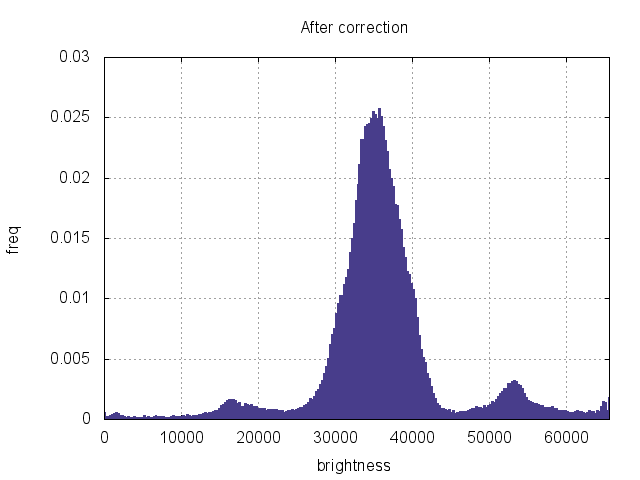
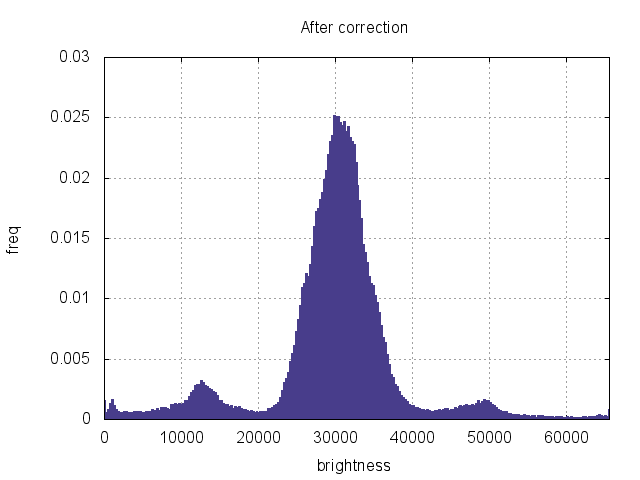
Add implement 2

Changed region(s): [[0.375, 0.2188, 0.75, 0.875], [0.1562, 0.7812, 0.375, 0.875], [0.75, 0.7812, 0.9688, 0.875]]

diff --git a/Utils/processors/to_negative.rb b/Utils/processors/to_negative.rb
@@ -4,6 +4,7 @@ module Utils
   module Processors
     class ToNegative < Base
       def run!
+=begin
         histogramm = image.histogramm
         image.image_data = image.image_data.map do |r, g, b|
           r = 255 - r
@@ -11,6 +12,22 @@ module Utils
           b = 255 - b
           [r, g, b]
         end
+=end
+#begin
+        image.height.times do |i|
+          image.width.times do |j|
+            image.view[i][j].red = 255 - image.view[i][j].red
+            image.view[i][j].green = 255 - image.view[i][j].green
+            image.view[i][j].blue = 255 - image.view[i][j].blue
+          end
+        end
+
+        image.view.sync
+
+        image.image_data = image.image_data.map do |r, g, b|
+          [r, g, b]
+        end
+#end
       end
     end
   end

diff --git a/laba1/main.rb b/laba1/main.rb
@@ -23,5 +23,5 @@ HistogrammPlotter.plot(image.histogramm, 'Before correction', 'out1.jpeg')
 Utils::Processors::ToNegative.new(image).run! if opts[:negative]
 Utils::Processors::ToMedianFilter.new(image).run! opts[:size] if opts[:median_filter]
 Utils::Processors::ToHarmonicMean.new(image).run! if opts[:harmonic_mean]
-HistogrammPlotter.plot(image.histogramm, 'After correction', 'out2.jpeg')
-image.save(opts[:outfile])
+image.save(opts[:outfile]) if opts[:negative] || opts[:median_filter] || opts[:harmonic_mean]
+HistogrammPlotter.plot(image.histogramm2(opts[:outfile]), 'After correction', 'out2.jpeg')

diff --git a/Utils/image.rb b/Utils/image.rb
@@ -51,9 +51,22 @@ module Utils
       end.to_h
     end
 
+    def histogramm2 path
+      @image = Magick::Image.read(path).first
+      @image_data = nil
+      image_data.each.with_object(Hash.new(0)) do |(r, g, b), res|
+        y = 0.3 * r + 0.59 * g + 0.11 * b
+        res[y] += 1
+      end.map do |k, v|
+        [k, v / pixel_count.to_f]
+      end.sort_by do |k, v|
+        k
+      end.to_h
+    end
+
     def save(path)
       # if @image_data
-        build_out_image.write(path)
+        build_out_image.write('ff.jpeg')
       # else
         image.write(path)
       # end

diff --git a/Utils/processors/to_median_filter.rb b/Utils/processors/to_median_filter.rb
@@ -24,6 +24,11 @@ module Utils
               end
             end
 
+            # if i % 100 == 0
+              # puts (image.view[i][j].red)
+              # puts image.view[i][j]
+            # end
+
             array_pixels.sort_by! { |item| item.first[0] }
 
             result = array_pixels[array_pixels.length / 2]
